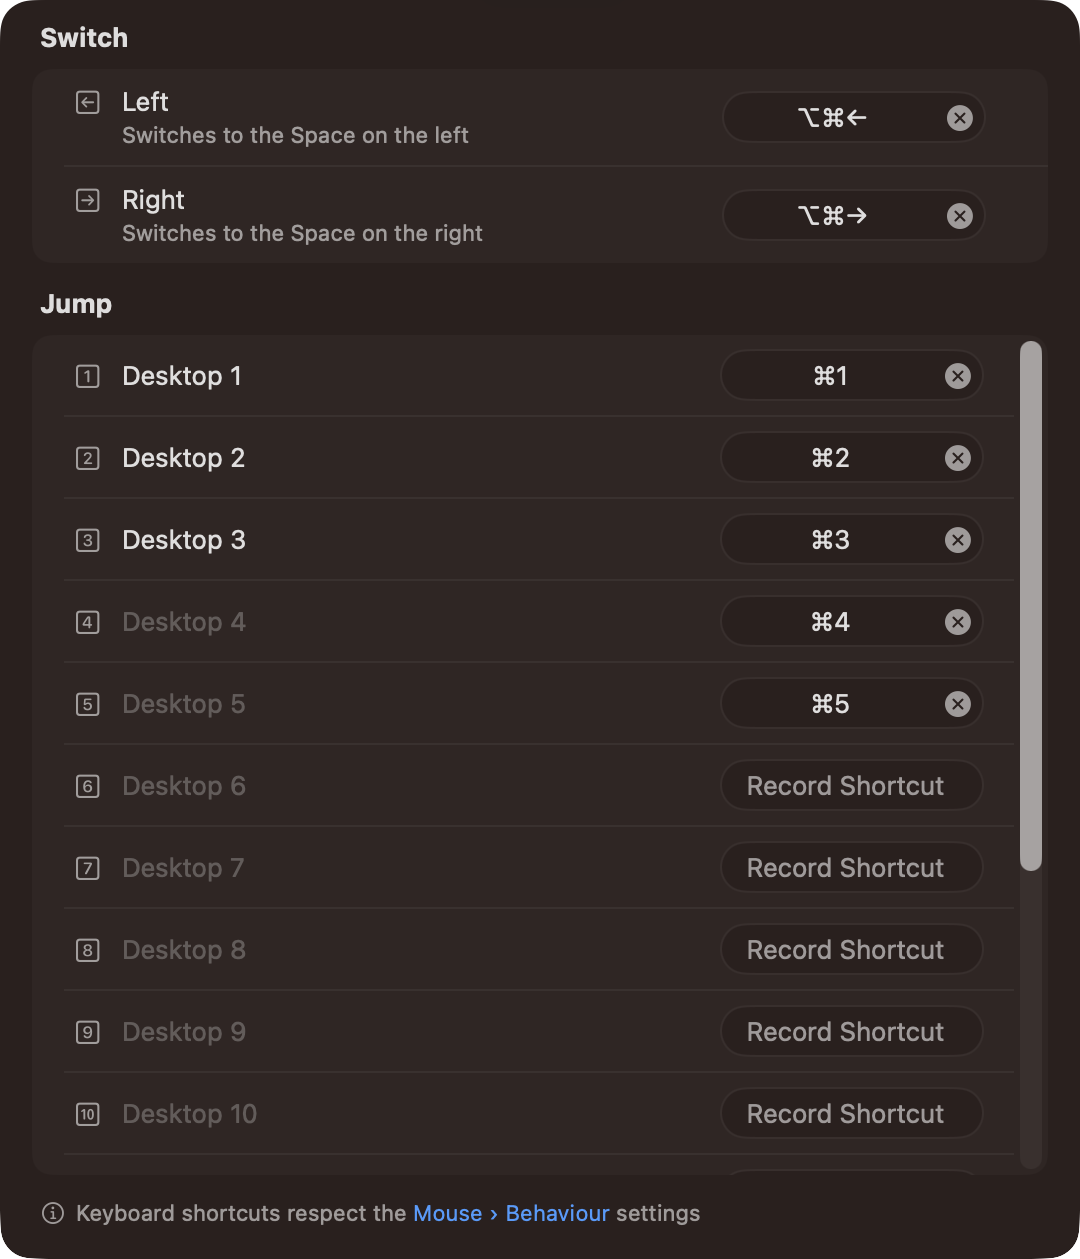
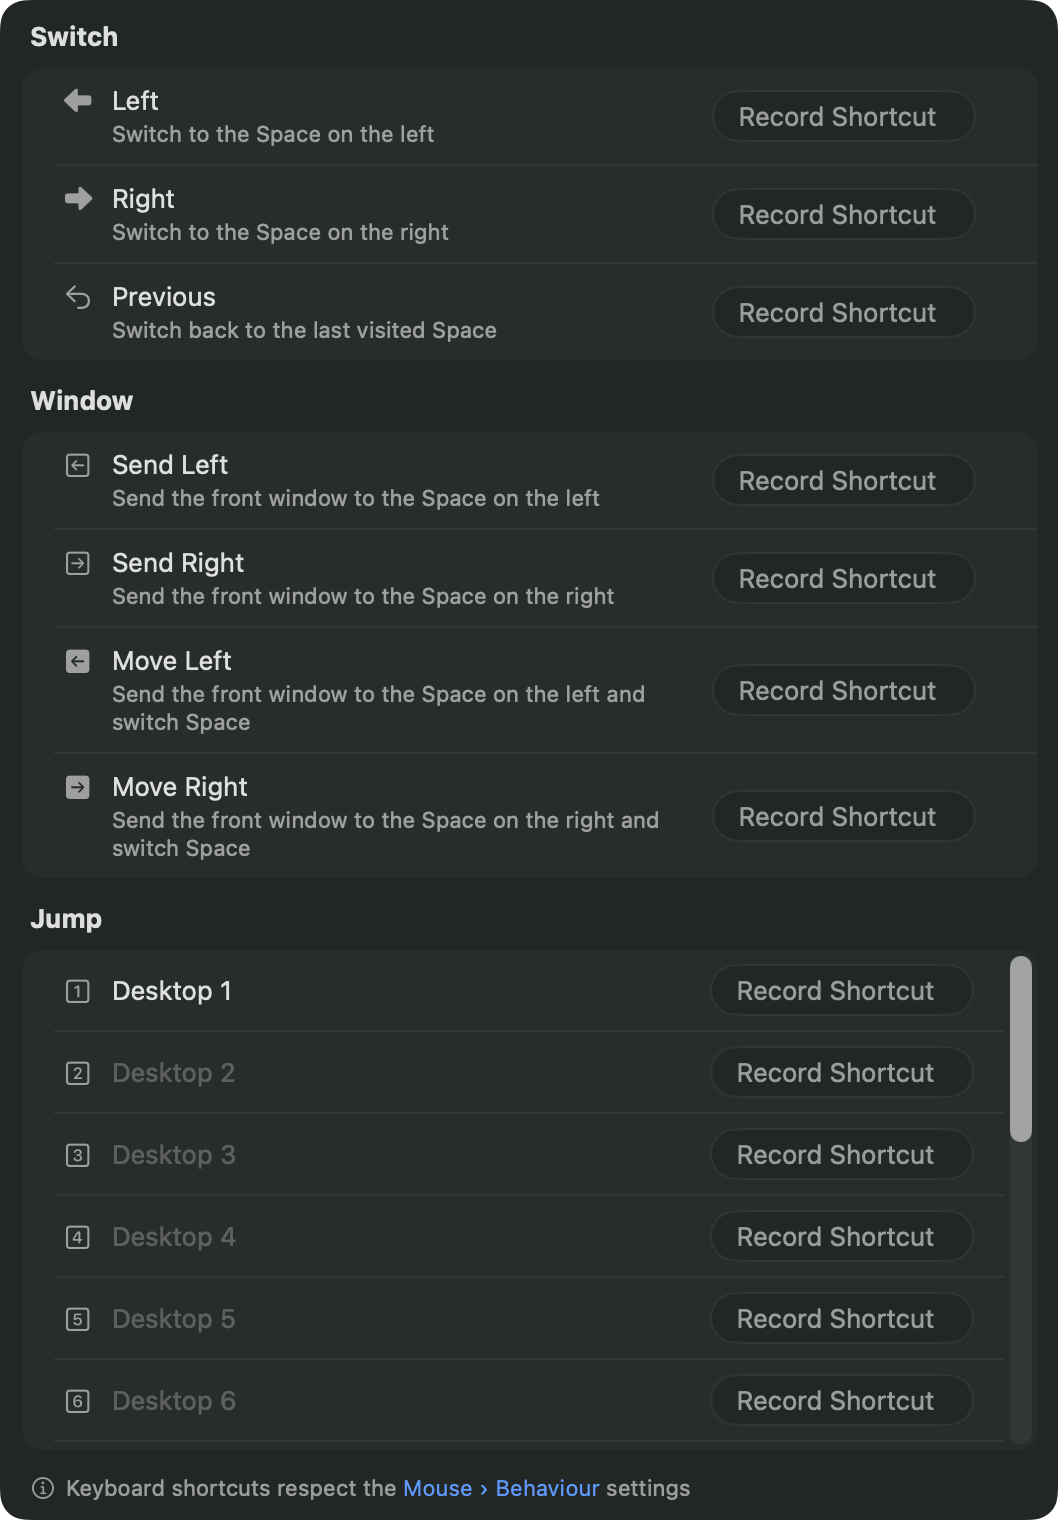
readme: Refresh keybinds screenshot

diff --git a/README.md b/README.md
@@ -9,7 +9,7 @@ Have you ever forgotten _which space_ is currently active on macOS and wanted a 
 - [**Multiple Spaces**](#spaces) - Show current Space only, or all Spaces at once
 - [**Multiple Displays**](#displays) - Include Spaces from every display in the menu bar icon
 - [**Click-to-Switch**](#click-on-a-space-to-switch-to-it) - Jump to any Space directly from the menu bar
-- [**Move Windows**](#moving-windows) - Send the front window to another Space, with or without following it
+- [**Move Windows**](#moving-windows) - Send the front window to another Space
 - [**Scroll-to-Switch**](#click-on-a-space-to-switch-to-it) - Cycle through Spaces by scrolling over the menu bar icon
 - [**Colors**](#colors) - Set foreground and background colors per Space
 - [**Icons**](#icons) - Choose from multiple icon styles (square, circle, triangle, and more)
@@ -19,8 +19,8 @@ Have you ever forgotten _which space_ is currently active on macOS and wanted a 
 - [**Badges**](#badges) - Add a small character of your choice next to the Space number
 - [**Size**](#size) - Scale icons to your preference
 - [**Fonts**](#fonts) - Choose a custom font per Space
+- [**Keybinds**](#keybinds) - Global keyboard shortcuts to switch to any Space
 - [**Sound**](#sounds) - Play a sound when switching Spaces
-- [**Keybinds**](#keybinds) - Global keyboard shortcuts to switch to any Space, and to move windows between them
 - [**Shortcuts**](#shortcuts) - Native actions for the Shortcuts app
 - [**AppleScript**](#scripting) - Automate with scripting support
 - [**URL Scheme**](#url-scheme) - Control via `whichspace://` links
@@ -59,6 +59,8 @@ brew install --cask whichspace
 >
 > Empty Spaces can be hidden entirely.
 
+---
+
 ### Displays
 
 #### Include Spaces from your other Displays, or just the current one
@@ -72,17 +74,23 @@ brew install --cask whichspace
 >
 > Full-screen apps are shown as their app icon (or **F**) and can be hidden entirely.
 
+---
+
 ### Colors
 
 #### Choose foreground and background colors for each Space, or apply one color to all Spaces
 
 <img src="Screenshots/SectionColor.png" width="60%">
 
+---
+
 ### Icons
 
 #### Choose from a variety of icons for each Space, or apply one icon to all Spaces
 
 <img src="Screenshots/SectionNumber.png" width="60%">
+
+---
 
 ### Symbols
 
@@ -94,6 +102,8 @@ brew install --cask whichspace
 
 <img src="Screenshots/PickerEmoji.png" width="60%">
 
+---
+
 ### Badges
 
 #### Add a small character next to the Space number
@@ -102,6 +112,8 @@ brew install --cask whichspace
 
 > [!NOTE]
 > Use `#` as the badge character to insert the current Space number.
+
+---
 
 ### Labels
 
@@ -112,17 +124,36 @@ brew install --cask whichspace
 > [!NOTE]
 > Use `{#}` in a label to insert the current Space number, e.g. `{#} - Work` → `3 - Work`.
 
+---
+
 ### Size
 
 #### Adjust the scale and padding of the icons in the menu bar
 
 <img src="Screenshots/SectionSize.png" width="60%">
 
+---
+
 ### Fonts
 
 #### Choose a custom font for each Space, or apply one font to all Spaces
 
 <img src="Screenshots/SectionFont.png" width="60%">
+
+---
+
+### Keybinds
+
+#### Switch Spaces or move windows with global keyboard shortcuts
+
+<img src="Screenshots/SectionKeybinds.png" width="60%">
+
+> [!NOTE]
+> The **Window** shortcuts move the front window between Spaces.
+>
+> **Send** leaves you on the current Space, while **Move** follows the window there.
+
+---
 
 ### Sounds
 
@@ -138,16 +169,7 @@ To add a custom sound:
 2. Copy your sound file into the directory
 3. The sound will appear under the **User** section in the Sound menu
 
-### Keybinds
-
-#### Switch Spaces with global keyboard shortcuts
-
-<img src="Screenshots/SectionKeybinds.png" width="60%">
-
-> [!NOTE]
-> The **Window** shortcuts move the front window between Spaces.
->
-> **Send** leaves you on the current Space, while **Move** follows the window there.
+---
 
 ### Shortcuts
 
@@ -166,6 +188,8 @@ WhichSpace provides native actions in the [Shortcuts](https://support.apple.com/
 - **Reset All Space Labels** / **Badges** - revert every Space at once
 
 "Switch Space" and "Get Current Space Number" are also available directly from Spotlight and Siri.
+
+---
 
 ### Scripting
 
@@ -257,6 +281,8 @@ osascript -e 'tell application "WhichSpace" to reset current space badge'
 # Reset the badges of all Spaces to their defaults
 osascript -e 'tell application "WhichSpace" to reset all space badges'
 ```
+
+---
 
 ### URL Scheme
 
